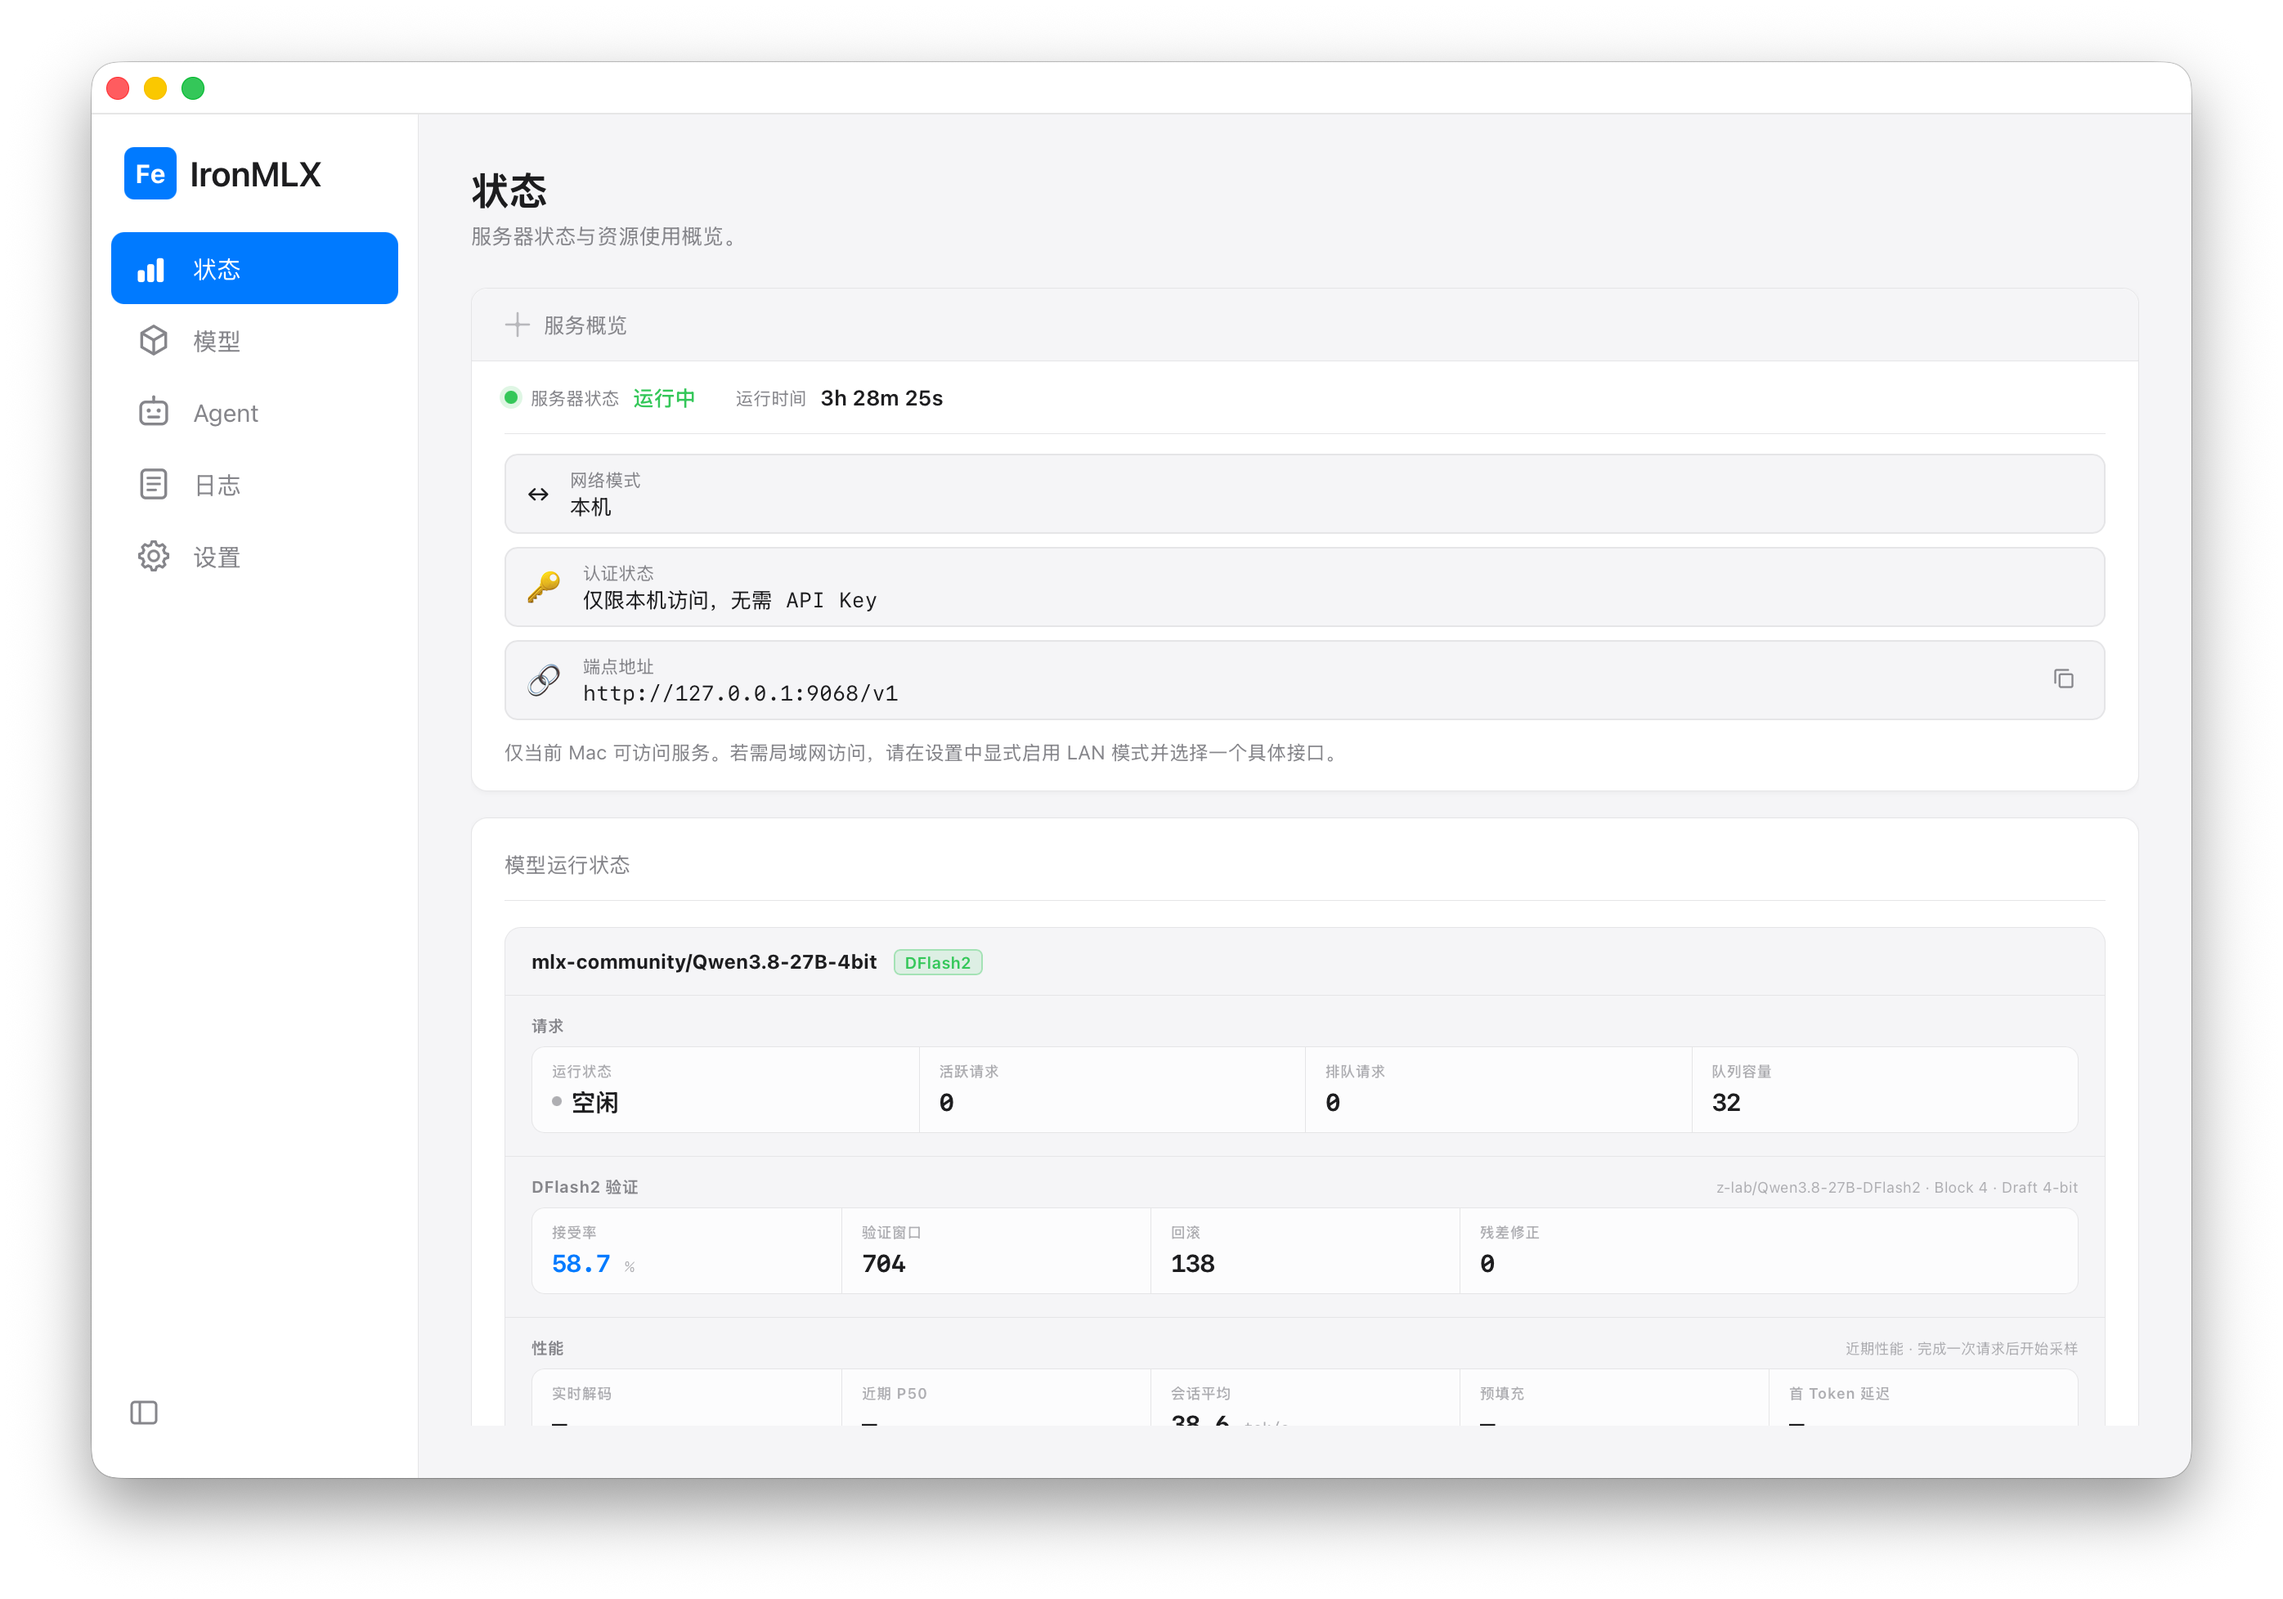
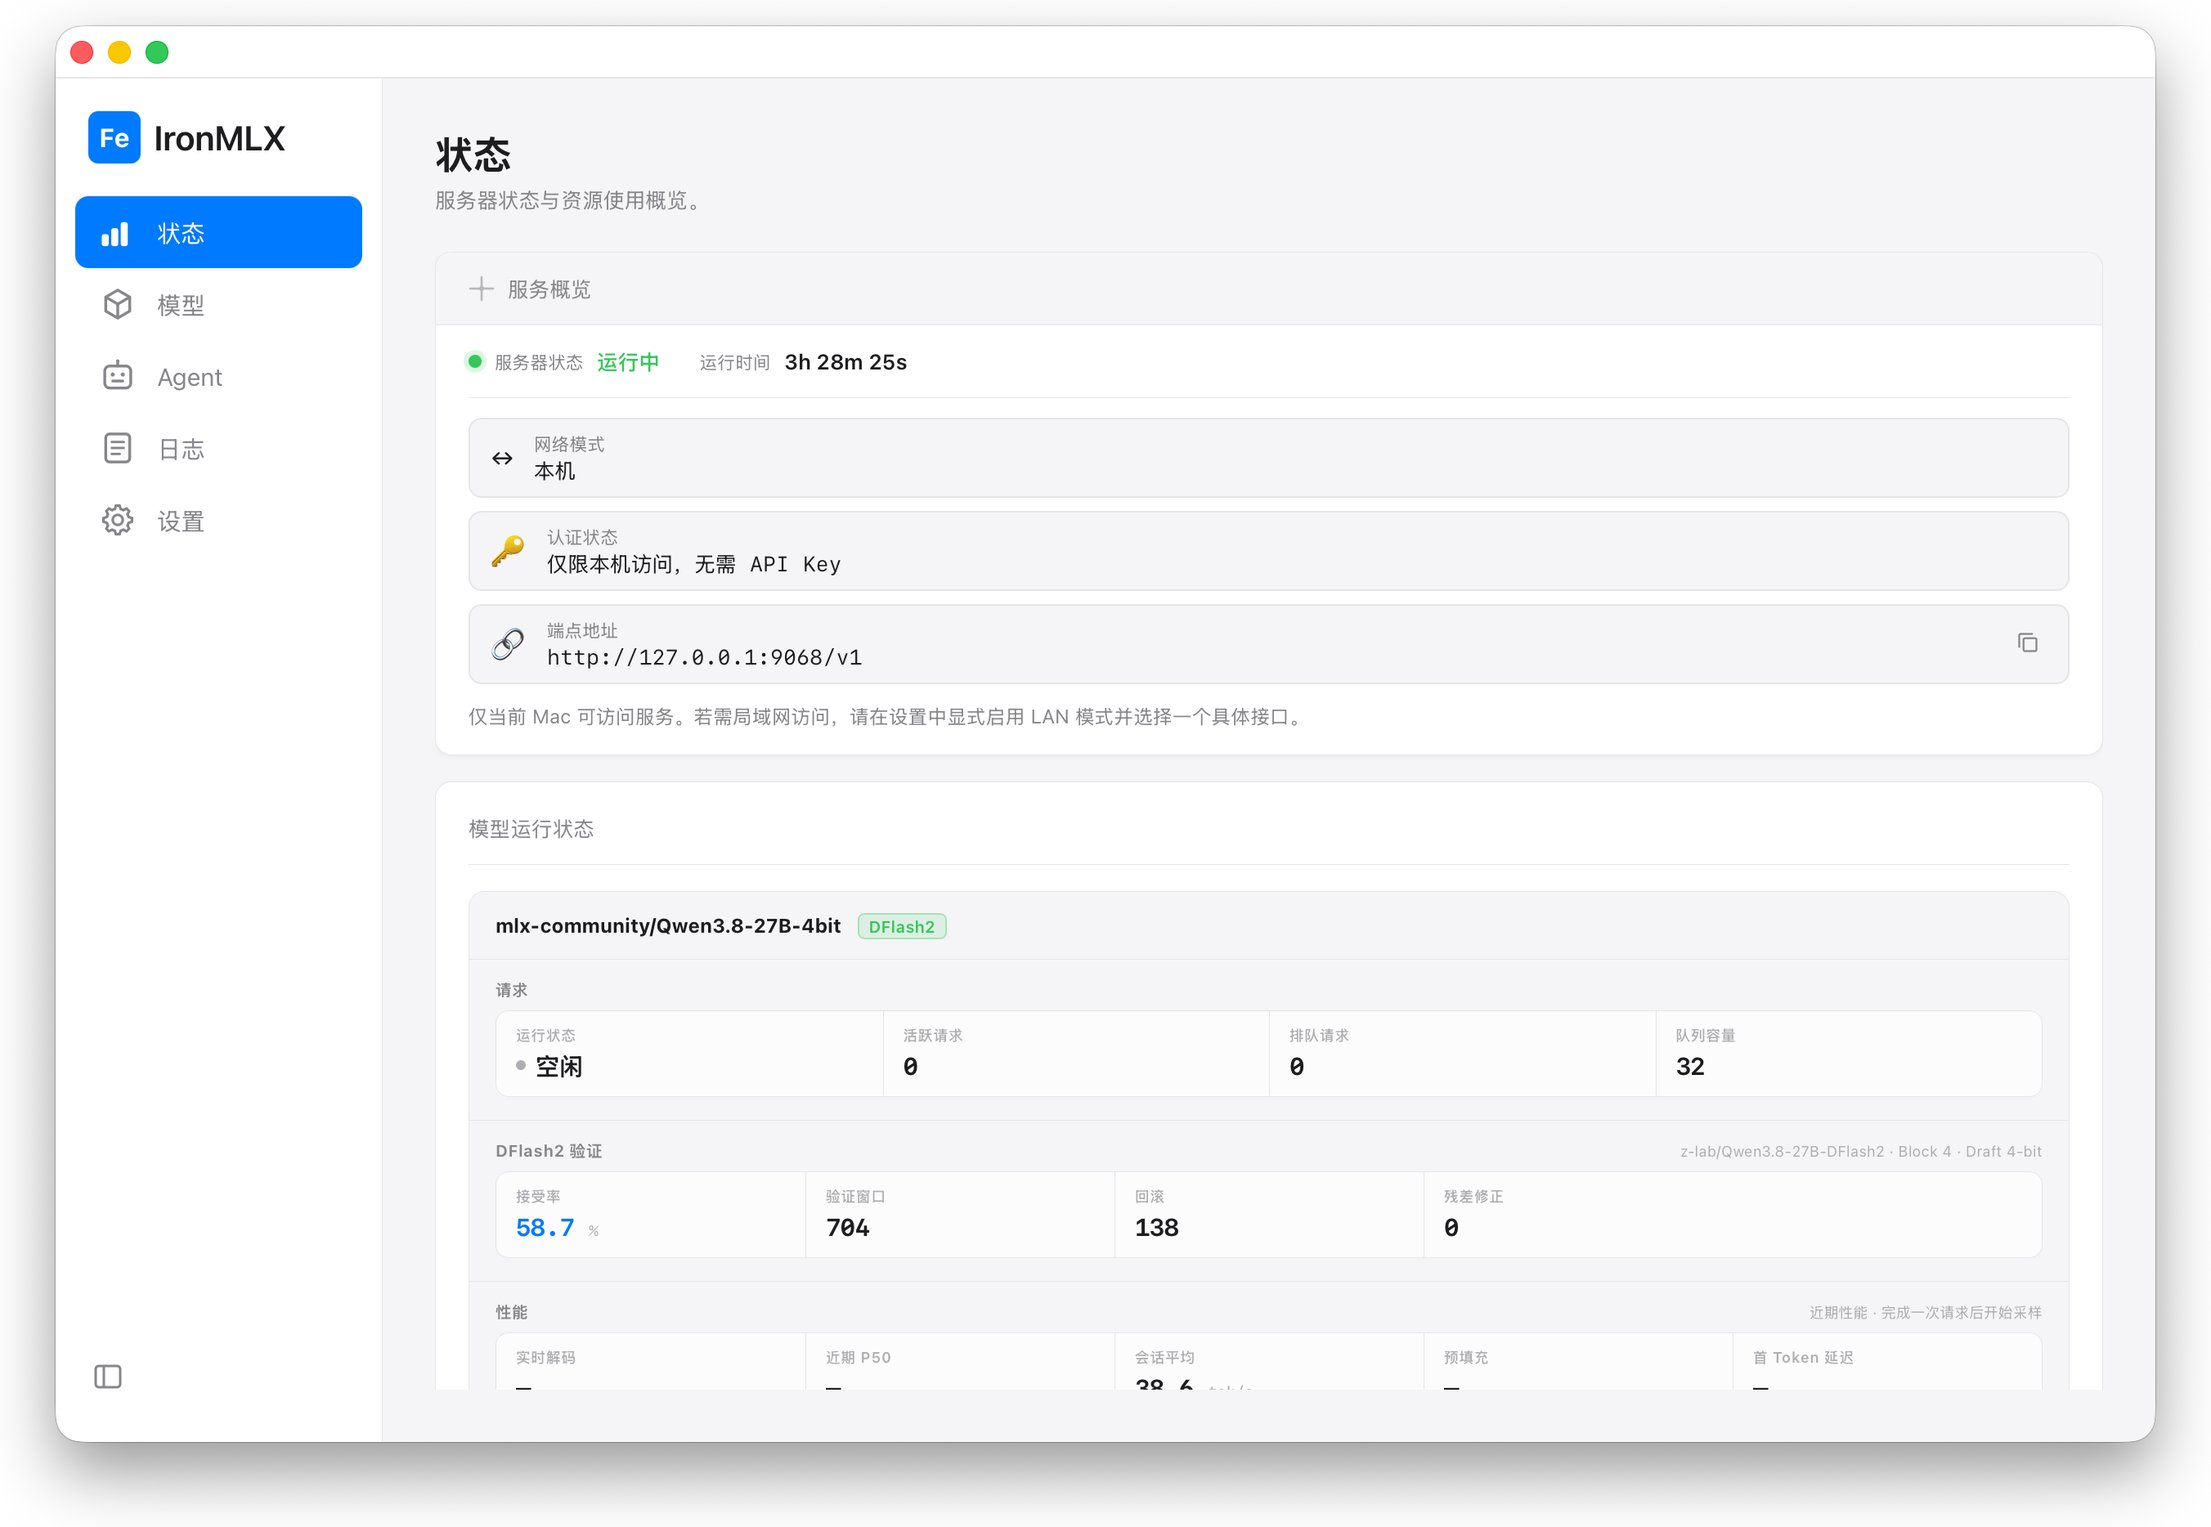
feat: stabilize DMG download and localized artwork

diff --git a/website/index.html b/website/index.html
@@ -11,7 +11,7 @@
 <body>
   <header class="nav"><a class="brand" href="./"><span class="mark">Fe</span><span>IronMLX</span></a><nav><a href="https://github.com/apepkuss/ironmlx">GitHub</a><a href="https://github.com/apepkuss/ironmlx/releases/latest">Releases</a><a href="https://github.com/apepkuss/ironmlx/tree/main/docs">Docs</a><a href="zh-Hans/">中文</a></nav></header>
   <main>
-    <section class="hero"><div><p class="release-badge">● v0.1.0-rc.1 · Release Candidate</p><p class="eyebrow">LOCAL INFERENCE FOR APPLE SILICON</p><h1>Private AI, native on your Mac.</h1><p class="lede">Run powerful open-source AI models privately and natively on your Mac.</p><div class="actions"><a class="button primary" href="https://github.com/apepkuss/ironmlx/releases/latest">Download DMG</a><a class="button secondary" href="https://github.com/apepkuss/ironmlx">View on GitHub ↗</a></div><p class="meta">Apple Silicon · macOS 26.4+ · OpenAI-compatible API · Privacy-first</p></div><div class="hero-art"><div class="glow"></div><img src="assets/dashboard-overview.png" alt="IronMLX Dashboard"></div></section>
+    <section class="hero"><div><p class="release-badge">● v0.1.0-rc.1 · Release Candidate</p><p class="eyebrow">LOCAL INFERENCE FOR APPLE SILICON</p><h1>Private AI, native on your Mac.</h1><p class="lede">Run powerful open-source AI models privately and natively on your Mac.</p><div class="actions"><a class="button primary" href="https://github.com/apepkuss/ironmlx/releases/latest/download/IronMLX.dmg">Download DMG</a><a class="button secondary" href="https://github.com/apepkuss/ironmlx">View on GitHub ↗</a></div><p class="meta">Apple Silicon · macOS 26.4+ · OpenAI-compatible API · Privacy-first</p></div><div class="hero-art"><div class="glow"></div><img src="assets/dashboard-overview.png" alt="IronMLX Dashboard"></div></section>
     <section class="features"><article><span>01</span><h2>Built for Agent applications</h2><p>Provide local model inference for Agent application scenarios.</p></article><article><span>02</span><h2>Built for Apple Silicon Macs</h2><p>Use Apple Silicon acceleration to run and manage local models efficiently on your Mac.</p></article><article><span>03</span><h2>Open interfaces</h2><p>Compatible with OpenAI and Anthropic APIs, providing a unified model interface for Agent applications and local tools.</p></article></section>
     <section class="support"><div><p class="eyebrow">SUPPORTED TODAY</p><h2>Bring your models home.</h2><p>Explore the supported model architectures and the requirements for your Mac.</p></div><a class="text-link" href="https://github.com/apepkuss/ironmlx/blob/main/docs/supported-models.md">See supported models ↗</a></section>
   </main>

diff --git a/website/zh-Hans/index.html b/website/zh-Hans/index.html
@@ -11,7 +11,7 @@
 <body>
   <header class="nav"><a class="brand" href="./"><span class="mark">Fe</span><span>IronMLX</span></a><nav><a href="https://github.com/apepkuss/ironmlx">GitHub</a><a href="https://github.com/apepkuss/ironmlx/releases/latest">版本发布</a><a href="https://github.com/apepkuss/ironmlx/tree/main/docs/zh-CN">文档</a><a href="../">English</a></nav></header>
   <main>
-    <section class="hero"><div><p class="release-badge">● v0.1.0-rc.1 · 候选版本</p><p class="eyebrow">APPLE SILICON 本地推理</p><h1>私享 AI，<br>尽在 Mac。</h1><p class="lede">在你的 Mac 上私密、原生地运行强大的<br>开源 AI 模型。</p><div class="actions"><a class="button primary" href="https://github.com/apepkuss/ironmlx/releases/latest">下载 DMG</a><a class="button secondary" href="https://github.com/apepkuss/ironmlx">访问 GitHub ↗</a></div><p class="meta">Apple Silicon · macOS 26.4+ · 兼容 OpenAI API · 隐私优先</p></div><div class="hero-art"><div class="glow"></div><img src="../assets/dashboard-overview-zh-CN.png" alt="IronMLX 控制面板"></div></section>
+    <section class="hero"><div><p class="release-badge">● v0.1.0-rc.1 · 候选版本</p><p class="eyebrow">APPLE SILICON 本地推理</p><h1>私享 AI，<br>尽在 Mac。</h1><p class="lede">在你的 Mac 上私密、原生地运行强大的<br>开源 AI 模型。</p><div class="actions"><a class="button primary" href="https://github.com/apepkuss/ironmlx/releases/latest/download/IronMLX.dmg">下载 DMG</a><a class="button secondary" href="https://github.com/apepkuss/ironmlx">访问 GitHub ↗</a></div><p class="meta">Apple Silicon · macOS 26.4+ · 兼容 OpenAI API · 隐私优先</p></div><div class="hero-art"><div class="glow"></div><img src="../assets/dashboard-overview-zh-CN.png" alt="IronMLX 控制面板"></div></section>
     <section class="features"><article><span>01</span><h2>服务 Agent 应用</h2><p>面向 Agent 应用场景，提供本地模型推理服务。</p></article><article><span>02</span><h2>为 Apple Silicon Mac 打造</h2><p>利用 Apple Silicon 原生加速，在 Mac 上高效运行和管理本地模型。</p></article><article><span>03</span><h2>开放接口</h2><p>兼容 OpenAI 和 Anthropic API，为 Agent 应用和本地工具提供统一的模型接口。</p></article></section>
     <section class="support"><div><p class="eyebrow">当前支持</p><h2>把模型带回本地。</h2><p>查看支持的模型架构，以及 Mac 的运行要求。</p></div><a class="text-link" href="https://github.com/apepkuss/ironmlx/blob/main/docs/supported-models.md">查看支持的模型 ↗</a></section>
   </main>

diff --git a/scripts/release-archives.py b/scripts/release-archives.py
@@ -71,7 +71,7 @@ def check_materials(repo, root):
 
 
 def asset_names(repo, package):
-    return sorted([f"{package}.zip", f"{package}.dmg", *MATERIALS] + [
+    return sorted([f"{package}.zip", "IronMLX.dmg", *MATERIALS] + [
         f"THIRD_PARTY_LICENSES/{path.relative_to(repo / 'THIRD_PARTY_LICENSES').as_posix()}"
         for path in (repo / "THIRD_PARTY_LICENSES").rglob("*") if path.is_file()])
 
@@ -86,7 +86,7 @@ def verify(repo, app, output, package):
             "SHA256SUMS mismatch or incomplete coverage")
     check_materials(repo, output)
     require({p.name for p in output.iterdir()} == {
-        f"{package}.zip", f"{package}.dmg", "SHA256SUMS", *MATERIALS, "THIRD_PARTY_LICENSES"},
+        f"{package}.zip", "IronMLX.dmg", "SHA256SUMS", *MATERIALS, "THIRD_PARTY_LICENSES"},
         "unexpected standalone assets")
     expected = inventory(app)
 
@@ -117,7 +117,7 @@ def verify(repo, app, output, package):
         check_root(unpack / package)
         mount = temp / "dmg"
         mount.mkdir()
-        run("hdiutil", "attach", output / f"{package}.dmg", "-readonly", "-nobrowse",
+        run("hdiutil", "attach", output / "IronMLX.dmg", "-readonly", "-nobrowse",
             "-mountpoint", mount, "-quiet")
         try:
             check_root(mount)
@@ -139,7 +139,7 @@ def assemble(repo, app, output, package):
             run("ditto", output / name, root / name)
         run("ditto", "-c", "-k", "--sequesterRsrc", "--keepParent", root, output / f"{package}.zip")
         run("hdiutil", "create", "-volname", package, "-srcfolder", root,
-            "-format", "UDZO", output / f"{package}.dmg")
+            "-format", "UDZO", output / "IronMLX.dmg")
     (output / "SHA256SUMS").write_text(checksums(repo, output, package))
     verify(repo, app, output, package)
 
@@ -161,7 +161,7 @@ def main():
     run(repo / "scripts/verify-distribution-materials.sh")
     if args.action == "finalize-dmg":
         # Signing/stapling changes the container bytes, never the mounted App.
-        dmg = output / f"IronMLX-{version}.dmg"
+        dmg = output / "IronMLX.dmg"
         run("codesign", "--verify", "--strict", dmg)
         run("xcrun", "stapler", "validate", dmg)
         run("spctl", "--assess", "--type", "open", "--context", "context:primary-signature", dmg)

diff --git a/scripts/publish-stable-release.py b/scripts/publish-stable-release.py
@@ -104,7 +104,7 @@ def main():
         run('spctl', '--assess', '--type', 'open', '--context', 'context:primary-signature', dmg)
     # Detailed materials remain inside the installation packages.
     version = (root / 'VERSION').read_text().strip()
-    assets = [root / '.build/stable-release' / f'IronMLX-{version}.{kind}'
+    assets = [root / '.build/stable-release' / ('IronMLX.dmg' if kind == 'dmg' else f'IronMLX-{version}.zip')
               for kind in ('dmg', 'zip')]
     update = root / '.build/app-update'
     data = json.loads((update / 'update.json').read_text())
